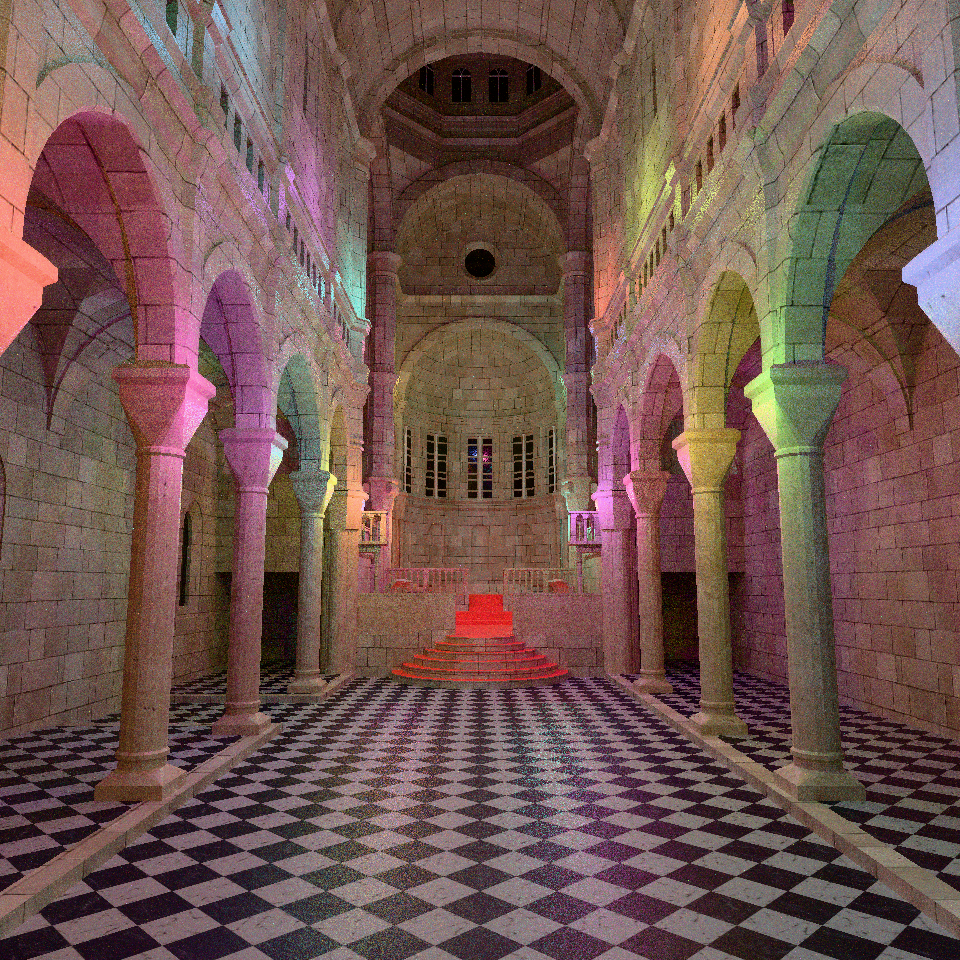
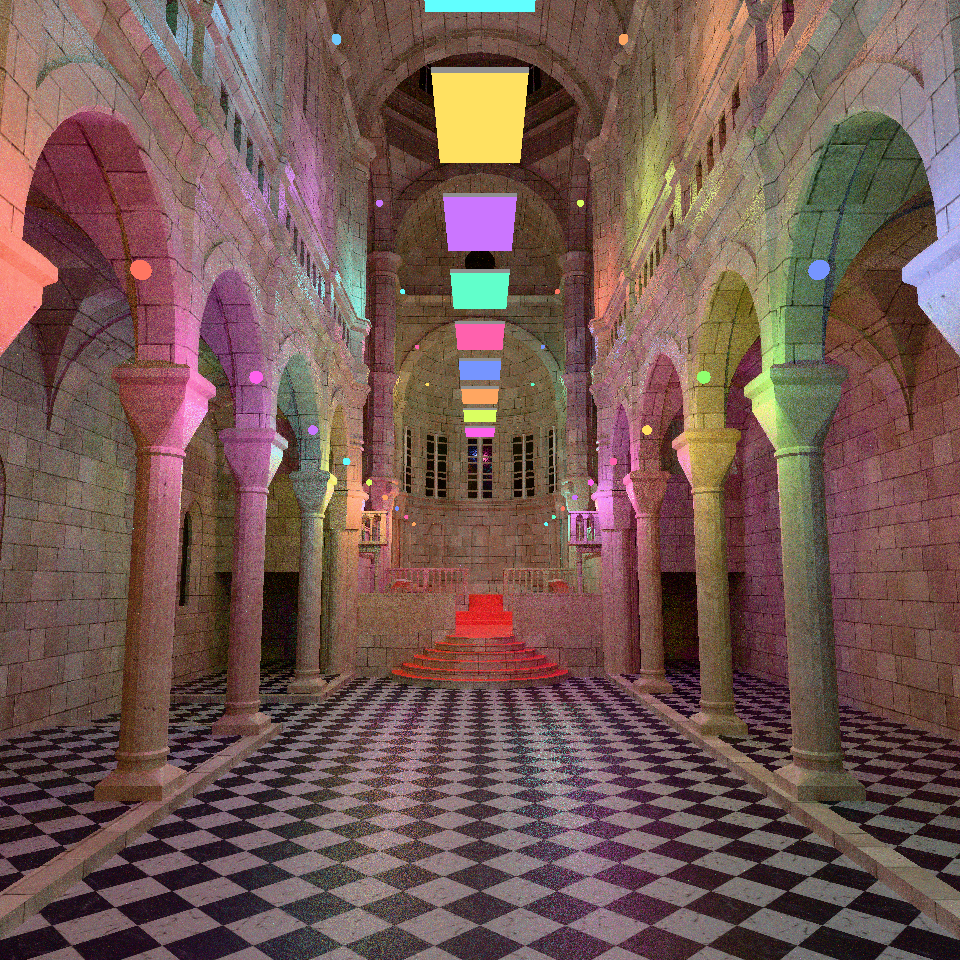
截图加上光源

diff --git a/test/CaptureScene.cpp b/test/CaptureScene.cpp
@@ -4,6 +4,7 @@
 #include "core/Context.h"
 #include "core/Window.h"
 #include "editor/EditorCamera.h"
+#include "editor/LightMarkers.h"
 #include "render/RenderContext.h"
 #include "render/RenderPreparation.h"
 #include "render/Renderer.h"
@@ -13,6 +14,8 @@
 #include "render/feature/ScenePass.h"
 #include "render/feature/SkyboxPass.h"
 #include "render/feature/TransparentPass.h"
+#include "render/feature/editor/EditorDepthPass.h"
+#include "render/feature/editor/LightMarkerPass.h"
 #include "render/feature/postprocess/BloomPass.h"
 #include "render/feature/postprocess/ToneMappingPass.h"
 #include "render/offline/OfflinePathTracingPass.h"
@@ -115,10 +118,13 @@ void capture(Renderer& renderer, SceneManager& scenes, const std::filesystem::pa
     TemporalReprojectionPass reprojection;
     BloomPass                bloom;
     ToneMappingPass          toneMapping;
+    EditorDepthPass          editorDepth;
+    LightMarkerPass          lightMarker;
     ImageReadbackPass        readback;
     EndPass                  end;
 
     RenderGraph::ImageHandle color;
+    RenderGraph::ImageHandle depthImage;
     if (offline || realtime)
     {
         const auto meshes     = graph.addPass(blas, setup);
@@ -141,6 +147,7 @@ void capture(Renderer& renderer, SceneManager& scenes, const std::filesystem::pa
         const auto depthOutput = graph.addPass(depth, setup);
         const auto sceneOutput = graph.addPass(scene, setup, depthOutput.depth, shadows);
         color                  = sceneOutput.color;
+        depthImage             = sceneOutput.depth;
         if (config.feature.ibl)
             color = graph.addPass(skybox, setup, color, sceneOutput.depth).color;
         color = graph.addPass(transparent, setup, color, sceneOutput.depth, sceneOutput.shadow).color;
@@ -149,6 +156,12 @@ void capture(Renderer& renderer, SceneManager& scenes, const std::filesystem::pa
         color = graph.addPass(bloom, setup, color).color;
     const auto target = graph.createImage({.format = format, .extent = {extent.width, extent.height, 1}});
     color             = graph.addPass(toneMapping, setup, color, target).color;
+    if (!offline)
+    {
+        if (depthImage.id == RenderGraph::kInvalidHandle)
+            depthImage = graph.addPass(editorDepth, setup).depth;
+        color = graph.addPass(lightMarker, setup, color, depthImage).color;
+    }
     const auto buffer = graph.addPass(readback, setup, color);
     graph.addPass(end, setup, RenderGraph::ImageHandle{}, buffer);
     graph.compile(setup);
@@ -160,8 +173,12 @@ void capture(Renderer& renderer, SceneManager& scenes, const std::filesystem::pa
     auto         shadows  = config.feature.shadow;
     if (offline || realtime)
         shadows.enable = false;
-    const auto  prepared   = prepareRenderScene(snapshot, view.uniforms, shadows, *context().assetManager, nullptr);
-    const auto& renderData = renderContext().resources->prepare(snapshot, prepared, 0);
+    const auto   prepared   = prepareRenderScene(snapshot, view.uniforms, shadows, *context().assetManager, nullptr);
+    const auto&  renderData = renderContext().resources->prepare(snapshot, prepared, 0);
+    LightMarkers lightMarkers;
+    if (!offline)
+        lightMarkers.prepare(scenes.scene(), *renderContext().resources);
+    const EditorFrameInput editor{.lightDrawItems = lightMarkers.drawItems()};
     if (offline || realtime)
     {
         for (auto& data : frameData)
@@ -185,8 +202,13 @@ void capture(Renderer& renderer, SceneManager& scenes, const std::filesystem::pa
         auto& commands = frame.commandBufferHandle();
         vkCheck(commands.reset());
         vkCheck(commands.begin({}));
-        graph
-            .execute(commands, {setup, frameData[index], view, renderData, {}, index}, 0, frame.gpuProfiler(), nullptr);
+        graph.execute(
+            commands,
+            {setup, frameData[index], view, renderData, editor, index},
+            0,
+            frame.gpuProfiler(),
+            nullptr
+        );
         vkCheck(commands.end());
         const auto command = *commands;
         vkCheck(vulkan.deviceHandle().resetFences(frame.drawFenceHandle()));

diff --git a/README.md b/README.md
@@ -4,11 +4,11 @@
 
 ## 渲染展示
 
-以下图片均由本项目直接渲染输出，分辨率为 960 × 960，不包含编辑器 UI，使用项目现有的 Bloom 和 Tone Mapping。
+以下图片均由本项目直接渲染输出，分辨率为 960 × 960，不包含编辑器侧栏与坐标轴，使用项目现有的 Bloom 和 Tone Mapping。
 
 ### 实时渲染
 
-Sibenik 实时光追：每帧 **1 spp**、最大递归深度 6、两帧在途。启用当前 SVGF 的历史重投影，前 10 帧算术平均，之后使用 EMA（当前帧权重 0.105）；截图取预热后的第 32 帧。未使用离线路线的渐进式累积或额外降噪。
+Sibenik 实时光追：每帧 **1 spp**、最大递归深度 6、两帧在途。启用当前 SVGF 的历史重投影，前 10 帧算术平均，之后使用 EMA（当前帧权重 0.105）；截图取预热后的第 32 帧。保留点光源的小球和矩形面光源的编辑器标记，未使用离线路线的渐进式累积或额外降噪。
 
 ![Sibenik 实时光追，1 spp/帧，历史重投影，第 32 帧](docs/images/sibenik-realtime.png)
 
